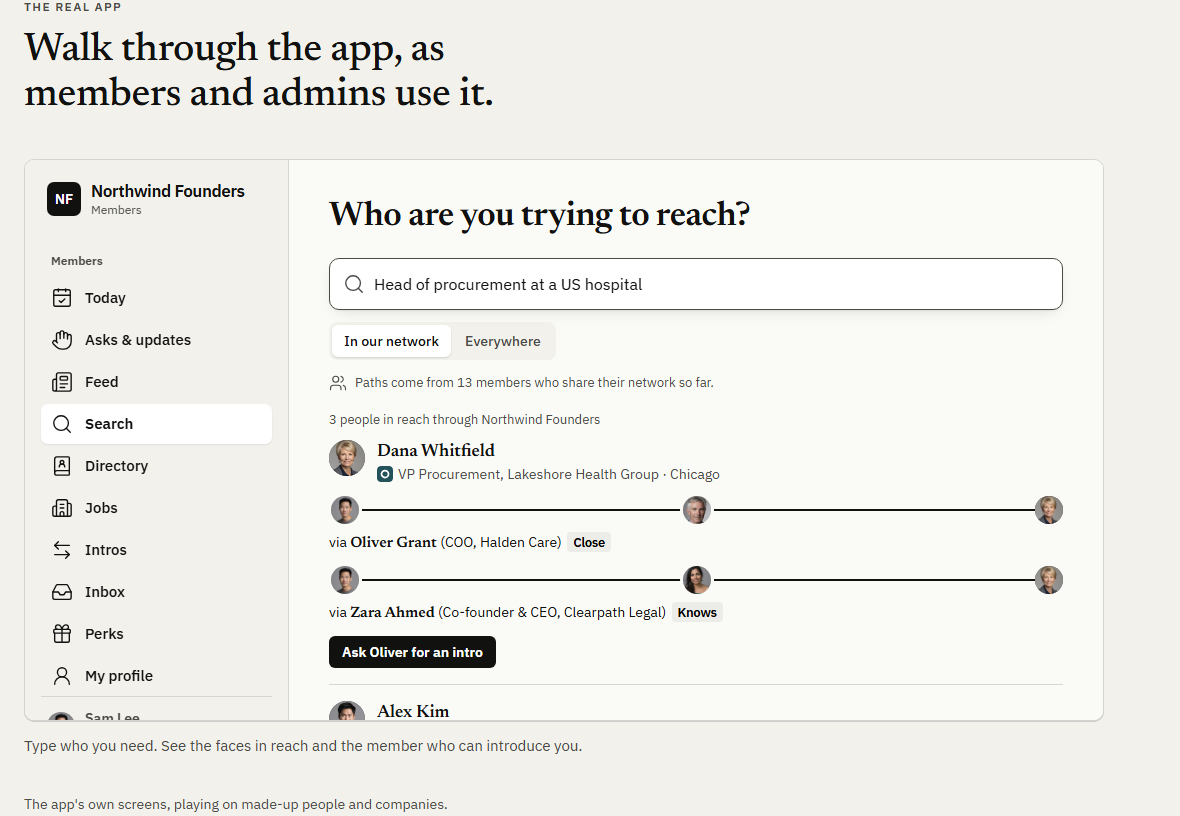
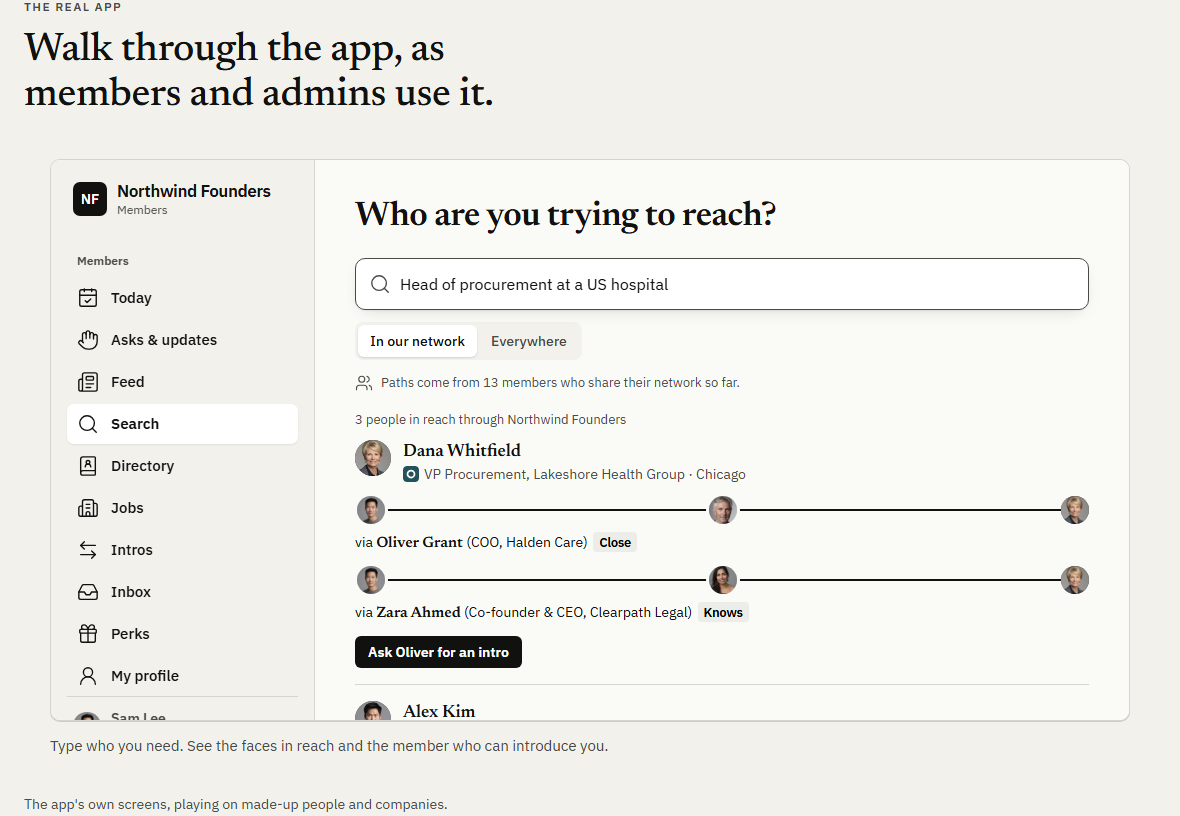
Landing tour: centre the stage sideways; the checker measures it
.demo had a max-width but no auto side margins, so it sat 26 px left of centre on a
wide window. The tour checker now fails when the stage is off centre sideways.
Notes, bug log and proof updated.

diff --git a/site/assets/site.css b/site/assets/site.css
@@ -201,7 +201,7 @@ h2 { font: 500 40px/1.12 var(--serif); letter-spacing: -.4px; max-width: 20em; t
    is the app's own markup in a shadow root, scaled to the frame. With JavaScript and motion allowed on a roomy window
    the stage pins in the middle of the window and the scroll picks the step; elsewhere the tour plays by itself, and
    with reduced motion it stays still and the tabs change it. Without JavaScript the still of step 1 shows. */
-.demo { margin-top: 40px; max-width: 1080px; }
+.demo { margin: 40px auto 0; max-width: 1080px; }
 .demo-stage { display: grid; gap: 14px; }
 .demo-bar { display: flex; align-items: center; gap: 12px; min-width: 0; }
 .demo-tabs { display: flex; gap: 6px; flex: 1; min-width: 0; overflow-x: auto; scrollbar-width: none; padding: 2px; }

diff --git a/.ai/bugs.md b/.ai/bugs.md
@@ -85,4 +85,5 @@ Append-only. `date · slug · symptom · root cause · fix commit/PR · repro te
 - 2026-11-18 · announcements · (fixed) `{{first name}}` left braces in the email, and braces over 40 characters went out raw · announcements: doubled braces are one field, any length · `src/modules/admin/announcements.test.ts`
 - 2026-11-18 · find-candidates · An ask's details (`ask.detail`, sent by the API) are saved but no asks screen or email shows them · the Commonhall asks screens show only the one line · open (find-candidates put the job's link in the line instead) · none yet
 - 2026-11-18 · find-candidates · A link inside an ask's line shows as plain text, not a link you can click, on the ask's page and the board card · ask lines are rendered as text · open · none yet
+- 2026-11-18 · landing-tour · (fixed) On a wide window the tour sat 26 px left of centre (74 px of space on the left, 126 px on the right at 1280 px) · `.demo` had a `max-width` but no auto side margins, so it hugged the left of the wider page column; `check-tour.mjs` only measured the vertical centre · tour-new-steps: `.demo { margin: 40px auto 0 }` (`site/assets/site.css`), and the checker now fails when the stage is more than 4 px off the window's centre sideways · found by the independent verifier
 - 2026-11-18 · landing-tour · (fixed) On a phone, once a tour step scrolled the app screen, the app's bottom tab bar scrolled with the content and sat across the middle or top of the frame · the tour scrolled `.tour-app`, the same box its `contain: layout` makes the fixed bar's containing block, so the bar moved with the scroll · tour-new-steps: the screen scrolls in an inner `.tour-scroll` box (`tour/src/main.tsx`) · seen in `check-tour.mjs`'s 390 px screenshots (`.ai/features/tour-new-steps/reports/`)

diff --git a/.ai/features/tour-new-steps/NOTES.md b/.ai/features/tour-new-steps/NOTES.md
@@ -36,5 +36,14 @@ the pure rules (`rules-candidates.ts`, `toAskDraftHref`) and only the type of `S
 - **Scroll track:** `main.tsx` sets `--tour-steps` on `#demo-root`; the track is `100vh × (1 + steps × 0.6)` (5.8
   window-heights for eight; it was 4 for five).
 
+- **Centred:** `.demo` has auto side margins, so the stage sits in the middle of the window sideways too.
+- **The announcements copy** follows main's role audiences (Everyone, Founders, Mentors and experts, One cohort):
+  `ANNOUNCEMENT_MEMBERS` carry each demo person's `communityRole`.
+
+## Known limits
+- The app box is `inert` (landing-tour's choice: visitors' clicks and focus stay out), so its text can't be selected.
+- Scrolling gives each step 0.6 of a window height; the Announce step plays about 16 s, so a quick scroller may move on
+  before the Send press.
+
 ## Checking it
-`node .ai/features/landing-tour/reports/check-tour.mjs <out dir>` checks all eight. Proof: `reports/`.
+`node .ai/features/landing-tour/reports/check-tour.mjs <out dir>` checks all eight, and the stage's centre both ways. Proof: `reports/`.
